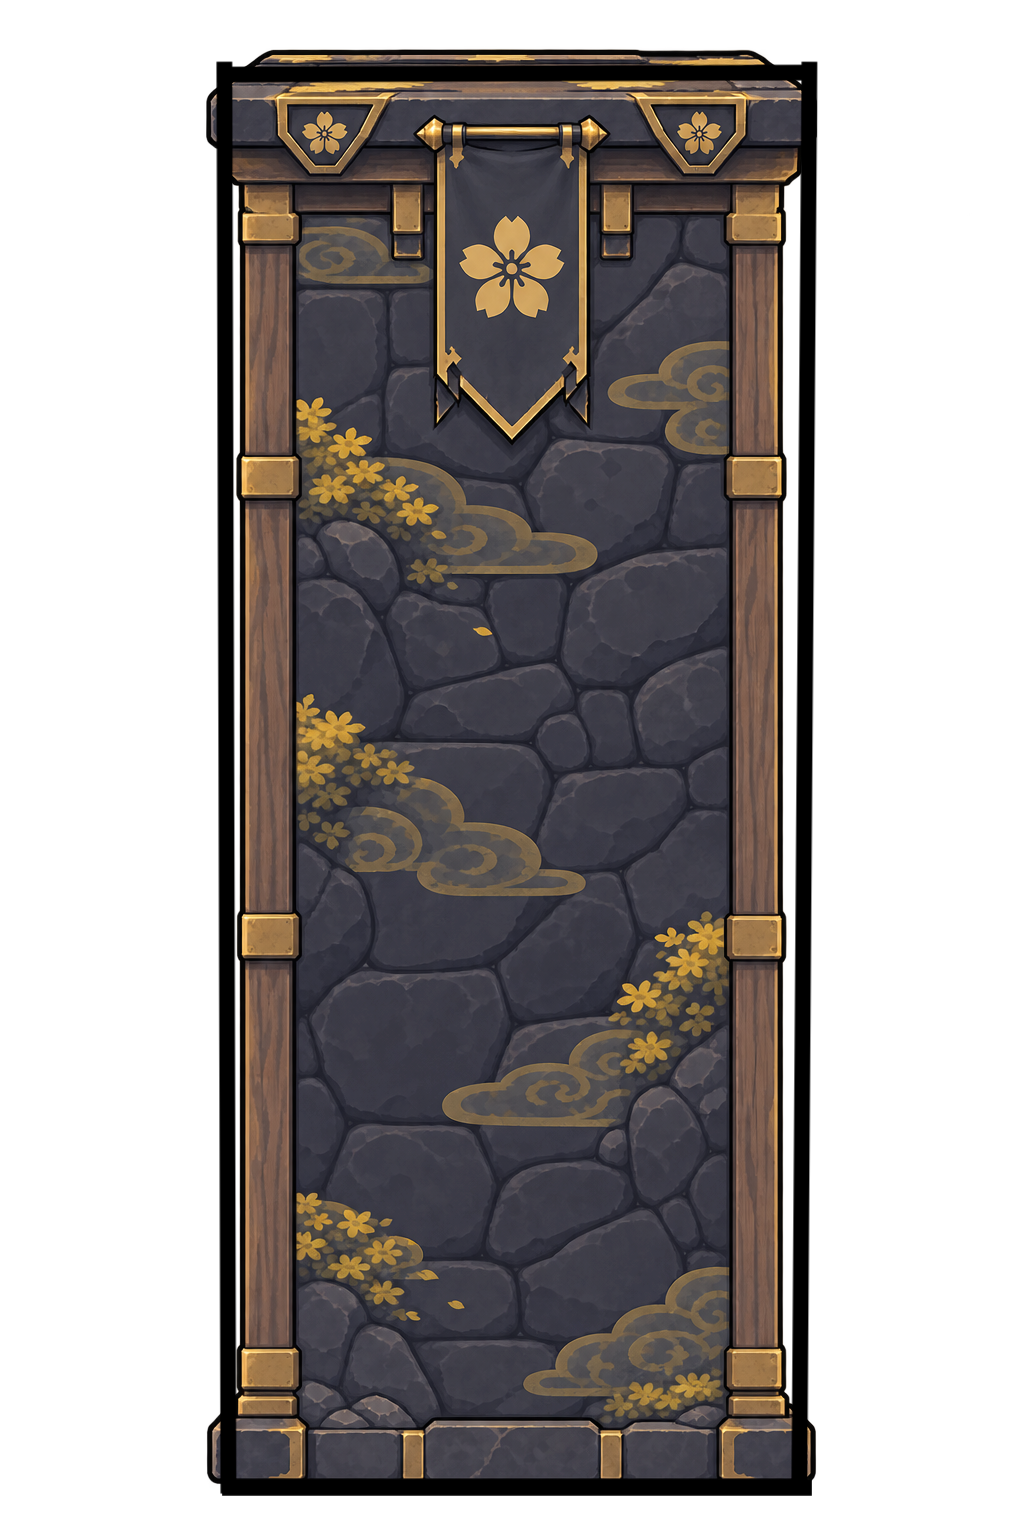
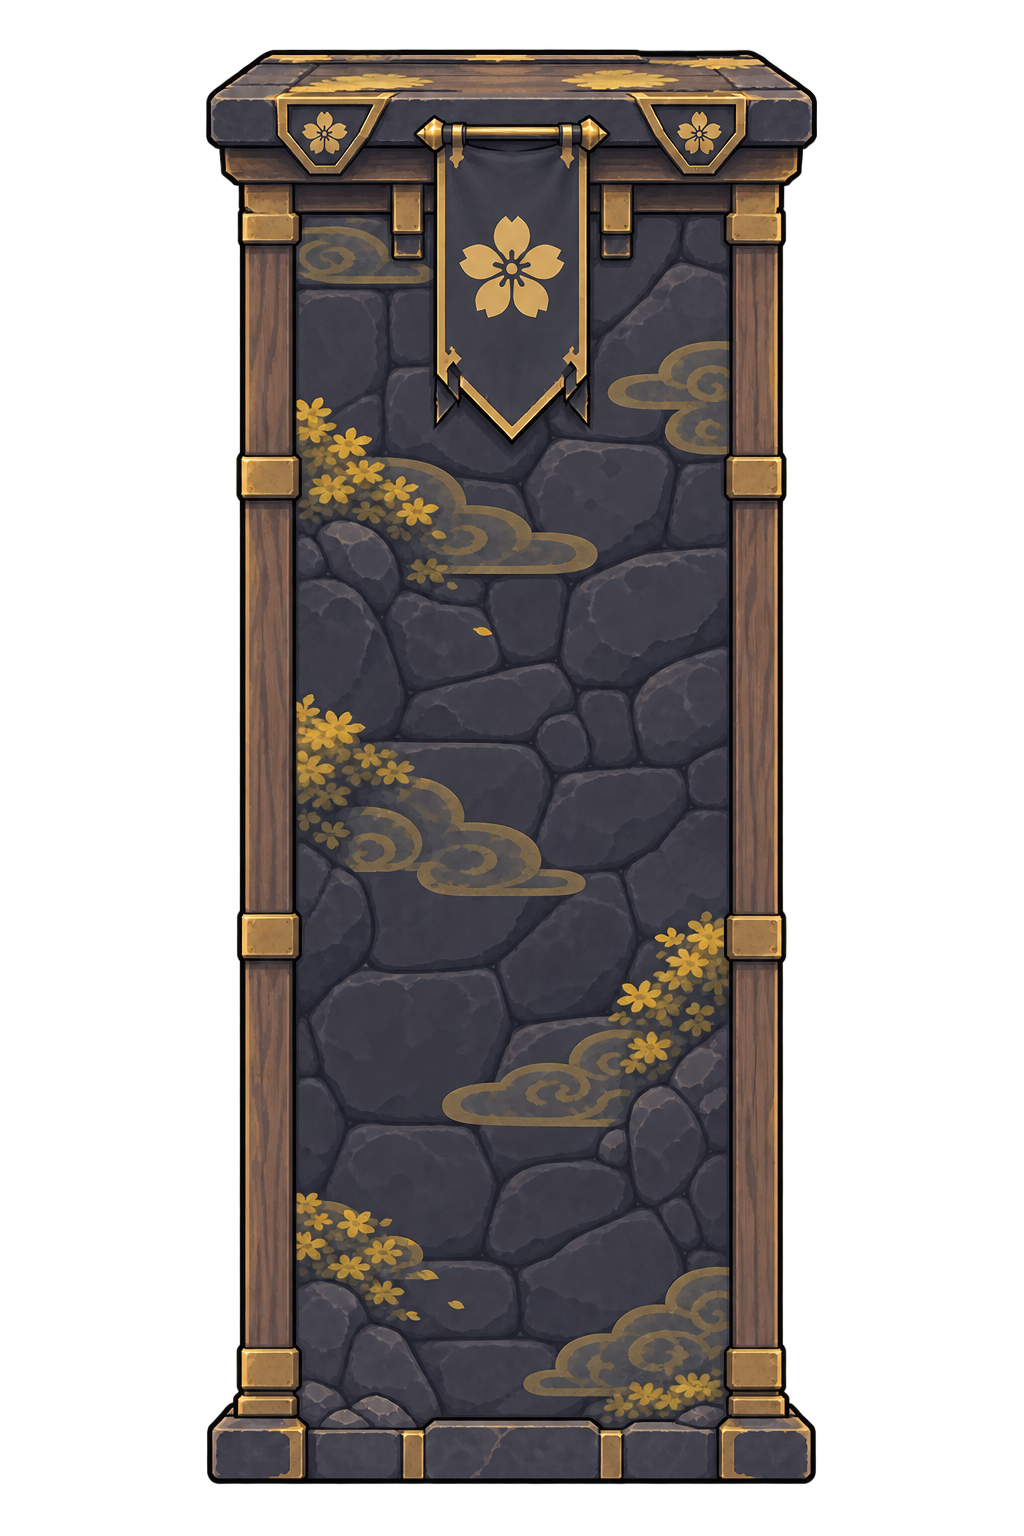
Add files via upload

Changed region(s): [[0.1875, 0.0312, 0.8125, 1.0]]

diff --git a/PlatformFighter.jsx b/PlatformFighter.jsx
@@ -42,27 +42,26 @@ const H = 720;
 
 const MAP_PLATFORMS = {
   splitcity: [
-    // Split City's main collider separates the 10px walkable top face from
-    // the visible front-wall depth. The art is drawn at its natural aspect
-    // ratio; side collision extends to the image bottom via _collisionBottom.
-    { x: 49, y: 570, w: 1182, h: 10, _collisionBottom: 888, material: 'split_city_joined', _splitCityMain: true, _visualX: 0, _visualW: 1280, _visualY: 570 },
+    // Collision lines follow only the black top-face strokes in the supplied
+    // reference PNGs. The art is drawn at its natural aspect ratio.
+    // The invisible collider follows the complete visible depth of the main
+    // platform art: from its top surface (image y=205) to the image bottom.
+    { x: 49, y: 570, w: 1182, h: 318, material: 'split_city_joined', _splitCityMain: true, _visualX: 0, _visualW: 1280, _visualY: 570 },
     { x: 431, y: 420, w: 419, h: 10, material: 'split_city_dropthrough', _splitCityDropthrough: true, _visualX: 400, _visualW: 480, _visualY: 420 },
   ],
   // Basic — Split City backdrop with a single flat normal-material platform
   basic: [
     { x: 40, y: 620, w: 1200, h: 48 },
   ],
-  // Silver's Mansion — the invisible physics lines are aligned to the
-  // top-face strokes in the three supplied transparent platform drawings.
-  // Art is rendered separately by renderer.js at the same world positions.
+  // Silver's Mansion — invisible collision strips mapped to the black line
+  // references supplied for the three separate platform artworks. Each box
+  // follows the line's full horizontal span and scaled line thickness.
   silvermansion: [
-    { x: 55, y: 570, w: 1172, h: 1, material: 'silver_mansion_main', _silverMansionMain: true, _visualX: 40, _visualW: 1200, _visualY: 570 },
-    // The side decks and the lower central bridge have distinct top heights
-    // in the supplied drawing; preserve those separate collision strokes.
-    { x: 100, y: 410, w: 362, h: 1, material: 'silver_mansion_dropthrough', _silverMansionDropthrough: true, _silverMansionDropthroughArt: true, _visualX: 90, _visualW: 1100, _visualY: 410 },
-    { x: 462, y: 438, w: 357, h: 1, material: 'silver_mansion_dropthrough', _silverMansionDropthrough: true },
-    { x: 819, y: 410, w: 363, h: 1, material: 'silver_mansion_dropthrough', _silverMansionDropthrough: true },
-    { x: 165, y: 160, w: 179, h: 1, material: 'silver_mansion_tall', _silverMansionTall: true, _visualX: 105, _visualW: 300, _visualY: 160 },
+    { x: 55, y: 570, w: 1172, h: 8, _silverMansionMain: true, _visualX: 40, _visualW: 1200, _visualY: 570 },
+    // The narrow-middle / wide-end platform is deliberately reduced in size.
+    { x: 258, y: 410, w: 767, h: 8, _silverMansionDropthrough: true, _visualX: 250, _visualW: 780, _visualY: 410 },
+    // The tall stone platform is larger and moved to the far right side.
+    { x: 989, y: 160, w: 247, h: 8, _silverMansionTall: true, _visualX: 900, _visualW: 420, _visualY: 160 },
   ],
   controllerforest: [
     { x: 40,   y: 620, w: 1200, h: 48 },
@@ -646,13 +645,12 @@ export default function PlatformFighter({
   useEffect(() => {
     music.setVolume(musicVolume);
     sfx.setVolume(sfxVolume);
-    // Silver's Mansion always uses its dedicated looping soundtrack.
-    // This effect reruns on every stage entry/change, so the correct track
-    // is selected each time the stage is played.
+    // Silver's Mansion always plays the user's supplied looping soundtrack.
+    // Other stages retain the original stage-aware music routing.
     if (mapId === 'silvermansion') {
       music.playTrack(`${import.meta.env.BASE_URL}audio/our-fallen-solider.mp3`);
     } else {
-      music.play(gameMode === 'soccer' || gameMode === 'soccertournament' ? 'soccer' : 'fight');
+      music.play(gameMode === 'soccer' || gameMode === 'soccertournament' ? 'soccer' : 'fight', { stageId: mapId });
     }
     return () => music.stop();
   }, [musicVolume, sfxVolume, gameMode, mapId]);
@@ -1338,6 +1336,7 @@ let prevJumps1 = 2, prevDownAir1 = false; // combo mode: track jumps and fastfal
         // Split City collision shapes are invisible; the dedicated stage art
         // is drawn by drawPlatforms and already supplies their appearance.
         if (mapId === 'splitcity' && (p._splitCityMain || p._splitCityDropthrough)) return;
+        if (mapId === 'silvermansion' && (p._silverMansionMain || p._silverMansionDropthrough || p._silverMansionTall)) return;
         drawMaterialOverlay(ctx, p, f1.frame);
       });
       // Visual indicator for erased platforms

diff --git a/renderer.js b/renderer.js
@@ -23,7 +23,8 @@ if (splitCityStage) splitCityStage.src = `${import.meta.env.BASE_URL}art/stages/
 if (splitCityMovingStage) splitCityMovingStage.src = `${import.meta.env.BASE_URL}art/stages/split-city/split-city-dropthrough-platform.png`;
 if (splitCityBackdrop) splitCityBackdrop.src = `${import.meta.env.BASE_URL}art/stages/split-city/city-backdrop.png`;
 
-// Silver's Mansion — supplied transparent platform artwork.
+
+// Silver's Mansion uses the clean platform PNGs (without collision guides).
 const silverMansionMain = typeof Image === 'undefined' ? null : new Image();
 const silverMansionDropthrough = typeof Image === 'undefined' ? null : new Image();
 const silverMansionTall = typeof Image === 'undefined' ? null : new Image();
@@ -63,6 +64,24 @@ function drawJoinedSplitCityPlatform(ctx, platform, foreground = false) {
   return true;
 }
 
+function drawSilverMansionPlatform(ctx, platform, kind) {
+  const image = kind === 'main' ? silverMansionMain : kind === 'dropthrough' ? silverMansionDropthrough : silverMansionTall;
+  // Keep collision boxes invisible even before their clean art has loaded.
+  if (!imageReady(image)) return true;
+  const visualX = platform._visualX ?? platform.x;
+  const visualW = platform._visualW ?? platform.w;
+  const visualY = platform._visualY ?? platform.y;
+  // Pixel rows from the user's line-reference images: main 159, dropthrough 337, tall 64.
+  const topOffsets = { main: 159, dropthrough: 337, tall: 64 };
+  const scale = visualW / image.naturalWidth;
+  const drawY = visualY - topOffsets[kind] * scale;
+  ctx.save();
+  ctx.imageSmoothingEnabled = true;
+  ctx.drawImage(image, visualX, drawY, visualW, image.naturalHeight * scale);
+  ctx.restore();
+  return true;
+}
+
 function drawSplitCityDropthroughPlatform(ctx, platform) {
   // Claim the platform's render slot even while its image is loading, so the
   // generic grey collision rectangle is never shown as a substitute texture.
@@ -74,23 +93,6 @@ function drawSplitCityDropthroughPlatform(ctx, platform) {
   const visualScale = visualW / splitCityMovingStage.naturalWidth;
   const visualH = splitCityMovingStage.naturalHeight * visualScale;
   ctx.drawImage(splitCityMovingStage, visualX, visualY - 280 * visualScale, visualW, visualH);
-  return true;
-}
-
-function drawSilverMansionPlatform(ctx, platform, kind) {
-  const image = kind === 'main' ? silverMansionMain : kind === 'dropthrough' ? silverMansionDropthrough : silverMansionTall;
-  // Suppress the generic collision slab while the image loads.
-  if (!imageReady(image)) return true;
-  const visualX = platform._visualX ?? platform.x;
-  const visualW = platform._visualW ?? platform.w;
-  const visualY = platform._visualY ?? platform.y;
-  const topOffsets = { main: 138, dropthrough: 316, tall: 49 };
-  const scale = visualW / image.naturalWidth;
-  const drawY = visualY - topOffsets[kind] * scale;
-  ctx.save();
-  ctx.imageSmoothingEnabled = true;
-  ctx.drawImage(image, visualX, drawY, visualW, image.naturalHeight * scale);
-  ctx.restore();
   return true;
 }
 
@@ -2036,8 +2038,7 @@ export function drawPlatforms(ctx, platforms, frame = 0, mapId = 'splitcity') {
     if (p?._freehandSegment || p?._artCollisionOnly) return;
     if (mapId === 'splitcity' && (p?._splitCityMain || p.material === 'split_city_joined') && drawJoinedSplitCityPlatform(ctx, p)) return;
     if (mapId === 'silvermansion' && p?._silverMansionMain) { drawSilverMansionPlatform(ctx, p, 'main'); return; }
-    if (mapId === 'silvermansion' && p?._silverMansionDropthroughArt) { drawSilverMansionPlatform(ctx, p, 'dropthrough'); return; }
-    if (mapId === 'silvermansion' && p?._silverMansionDropthrough) return;
+    if (mapId === 'silvermansion' && p?._silverMansionDropthrough) { drawSilverMansionPlatform(ctx, p, 'dropthrough'); return; }
     if (mapId === 'silvermansion' && p?._silverMansionTall) { drawSilverMansionPlatform(ctx, p, 'tall'); return; }
     if (p?._splitCityDropthrough || (mapId === 'splitcity' && p.material === 'split_city_dropthrough')) {
       if (drawSplitCityDropthroughPlatform(ctx, p)) return;

diff --git a/stageBackgrounds.js b/stageBackgrounds.js
@@ -8,6 +8,7 @@ const SPLIT_CITY_ART_PATH = `${import.meta.env.BASE_URL}art/stages/split-city/ci
 const splitCityArt = typeof Image === 'undefined' ? null : new Image();
 if (splitCityArt) splitCityArt.src = SPLIT_CITY_ART_PATH;
 
+
 const SILVER_MANSION_BACKDROP_PATH = `${import.meta.env.BASE_URL}art/stages/silver-mansion/silver-mansion-backdrop.png`;
 const silverMansionBackdrop = typeof Image === 'undefined' ? null : new Image();
 if (silverMansionBackdrop) silverMansionBackdrop.src = SILVER_MANSION_BACKDROP_PATH;
